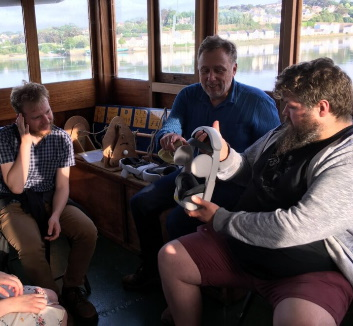
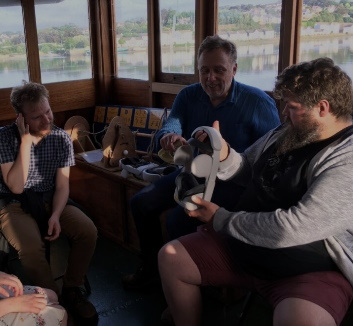
Updated imagery and labels for work history

diff --git a/index.html b/index.html
@@ -55,31 +55,73 @@
       <article>
         <span class="image"><img src="images/pic15.jpg"/></span>
         <a href="https://www.fridaysundae.com/" target="_blank">
-        <h2><img src="images/portfolio/friday_sundae.png" alt="Friday Sundae"/><br>Unannounced Game</h2>
+        <h2><img src="images/portfolio/friday_sundae.png" alt="Friday Sundae"/><br>Lead Programmer<br>(Unannounced Game)</h2>
         <div class="content">
-          <p>Generalist Unity Programmer on a first-person musical decoration game with narrative and cinematic elements.<br><b>Click to view Friday Sundae's website.</b></p>
+          <p>Lead Programmer on a first-person musical decoration game with narrative and cinematic elements.<br><b>Click to view Friday Sundae's website.</b></p>
         </div>
         </a>
       </article>
       <article>
-        <span class="image"><img src="images/pic14.jpg"/></span>
+        <span class="image"><img src="images/portfolio/fss_clients.jpg"/></span>
         <a href="https://www.fridaysundae.com/" target="_blank">
-        <h2><img src="images/portfolio/friday_sundae.png" alt="Friday Sundae"/><br>Client Projects</h2>
+        <h2><img src="images/portfolio/friday_sundae.png" alt="Friday Sundae"/><br>Unity Developer<br>(Client Projects)</h2>
         <div class="content">
-          <p>Unity Developer on client projects and pitches.<br>Clients include Cartoon Network, the BBC and the British Museum.<br><b>Click to view Friday Sundae's website.</b></p>
+          <p>Development on client projects.<br>Clients include Cartoon Network, the BBC and the British Museum.<br><b>Click to view Friday Sundae's website.</b></p>
         </div>
         </a>
       </article>
       <article>
         <span class="image"><img src="images/portfolio/ss_freshspring.jpg"/></span>
         <a href="https://ssfreshspring.co.uk/a-cracking-start-to-the-season-with-the-easter-bank-holiday-opening/" target="_blank">
-        <h2><img src="images/portfolio/ss_freshspring.png" alt="Steamship Freshspring"/><br>VR Experience</h2>
+        <h2><img src="images/portfolio/ss_freshspring.png" alt="Steamship Freshspring"/><br>Unity Developer<br>(VR Experience)</h2>
         <div class="content">
-          <p>A VR film experience developed for the SS Freshspring Trust and BMT Maritime.<br>Step back in time and learn about life at sea on the Freshspring.<br><b>Click to visit the SS Freshspring website.</b></p>
+          <p>A VR film experience developed for the SS Freshspring Trust and BMT.<br>Step back in time and learn about life at sea on the Freshspring.<br><b>Click to visit the SS Freshspring website.</b></p>
         </div>
         </a>
       </article>
      </section>
+	 
+     <h2>Global Game Jam</h2>
+     Since 2020, I have participated in the yearly <a href="https://globalgamejam.org/" target="_blank">Global Game Jam</a>, which runs for 48 hours. These are the games I jammed on each year.
+     <section class="tiles">
+      <article>
+        <span class="image"><img src="images/portfolio/rootvegroll.jpg"/></span>
+        <a href="https://olihewi.itch.io/root-veg-roll" target="_blank">
+        <h2><img src="images/portfolio/rootvegroll_logo.png" alt="Root Veg Roll"/></h2>
+        <div class="content">
+          <p>Maniacally roll various root vegetables through a kitchen full of obstacles to escape through the window!<br><b>Click to play in your browser on itch.io!</b></p>
+        </div>
+        </a>
+      </article>
+      <article>
+        <span class="image"><img src="images/portfolio/vampireshangover.jpg"/></span>
+        <a href="https://olihewi.itch.io/vampires-hangover" target="_blank">
+        <h2><img src="images/portfolio/vampireshangover_logo.png" alt="Vampire's Hangover"/></h2>
+        <div class="content">
+          <p>A drunken vampire comes home to all of his hideous pets escaping their cages! Solve puzzles to put them back and get a good day's sleep.<br><b>Click to download on itch.io!</b></p>
+        </div>
+        </a>
+      </article>
+      <article>
+        <span class="image"><img src="images/portfolio/amazoff.jpg"/></span>
+        <a href="https://olihewi.itch.io/amazoff-lost-and-found" target="_blank">
+        <h2><img src="images/portfolio/amazoff_logo.png" alt="Amazoff Lost & Found"/></h2>
+        <div class="content">
+          <p>Welcome to the Amazoff Customer Fulfilment Centre! There's been a shift of management, bodies moving in and out, but that's above your paygrade anyway.<br><b>Click to download on itch.io!</b></p>
+        </div>
+        </a>
+      </article>
+      <article>
+        <span class="image"><img src="images/portfolio/flynnstarchad.jpg"/></span>
+        <a href="https://olihewi.itch.io/flynn-starchad" target="_blank">
+        <h2><img src="images/portfolio/flynnstarchad_logo.png" alt="Flynn Starchad"/></h2>
+        <div class="content">
+          <p>Blast yourself around broken-down spaceships using the recoil of Flynn's Grepair Gun, alternating shots of destruction and repair pellets to fix ships.<br><b>Click to download on itch.io!</b></p>
+        </div>
+        </a>
+      </article>
+     </section>
+	 
      <h2>UWE - Games Technology</h2>
      I studied <a href="https://courses.uwe.ac.uk/G611/games-technology" target="_blank">BSc. Games Technology at the University of the West of England</a> for three years, and had a great time there.<br>These are a few of the game-related projects I worked on.
      <section class="tiles">
@@ -253,47 +295,6 @@
        </a>
       </article> -->
    	
-     </section>
-
-     <h2>Global Game Jam</h2>
-     Since 2020, I have participated in the yearly <a href="https://globalgamejam.org/" target="_blank">Global Game Jam</a>, which runs for 48 hours. These are the games I jammed on each year.
-     <section class="tiles">
-      <article>
-        <span class="image"><img src="images/portfolio/rootvegroll.jpg"/></span>
-        <a href="https://olihewi.itch.io/root-veg-roll" target="_blank">
-        <h2><img src="images/portfolio/rootvegroll_logo.png" alt="Root Veg Roll"/></h2>
-        <div class="content">
-          <p>Maniacally roll various root vegetables through a kitchen full of obstacles to escape through the window!<br><b>Click to play in your browser on itch.io!</b></p>
-        </div>
-        </a>
-      </article>
-      <article>
-        <span class="image"><img src="images/portfolio/vampireshangover.jpg"/></span>
-        <a href="https://olihewi.itch.io/vampires-hangover" target="_blank">
-        <h2><img src="images/portfolio/vampireshangover_logo.png" alt="Vampire's Hangover"/></h2>
-        <div class="content">
-          <p>A drunken vampire comes home to all of his hideous pets escaping their cages! Solve puzzles to put them back and get a good day's sleep.<br><b>Click to download on itch.io!</b></p>
-        </div>
-        </a>
-      </article>
-      <article>
-        <span class="image"><img src="images/portfolio/amazoff.jpg"/></span>
-        <a href="https://olihewi.itch.io/amazoff-lost-and-found" target="_blank">
-        <h2><img src="images/portfolio/amazoff_logo.png" alt="Amazoff Lost & Found"/></h2>
-        <div class="content">
-          <p>Welcome to the Amazoff Customer Fulfilment Centre! There's been a shift of management, bodies moving in and out, but that's above your paygrade anyway.<br><b>Click to download on itch.io!</b></p>
-        </div>
-        </a>
-      </article>
-      <article>
-        <span class="image"><img src="images/portfolio/flynnstarchad.jpg"/></span>
-        <a href="https://olihewi.itch.io/flynn-starchad" target="_blank">
-        <h2><img src="images/portfolio/flynnstarchad_logo.png" alt="Flynn Starchad"/></h2>
-        <div class="content">
-          <p>Blast yourself around broken-down spaceships using the recoil of Flynn's Grepair Gun, alternating shots of destruction and repair pellets to fix ships.<br><b>Click to download on itch.io!</b></p>
-        </div>
-        </a>
-      </article>
      </section>
      
      <h2>Past Projects</h2>
